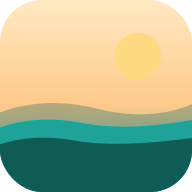
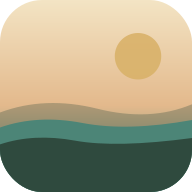
Rustiger, natuurtinten-only kleurenpalet + fotostrip verkleind
- Koraalaccent en felle geel/turquoise vervangen door gedempte
  sand/moss/sage/duingoud-tinten, in zowel licht als donker thema
  (CSS-variabelen, hero-gradient/SVG, app-iconen, kaartlijnen)
- Fotostrip op Activiteiten-tab teruggebracht naar alleen de
  Kennemerduinen-illustratie; Haarlem- en Amsterdam-Noord-stadstegels
  verwijderd
- Indicatieve kaartlijnen zijn nu duingoud, echte ingelezen GPX-tracks
  donkergroen — visueel onderscheid tussen "benaderd" en "geverifieerd"
- Eten-banner gebruikt nu var(--sage)/var(--ink) i.p.v. losse hex, zodat
  hij ook in donker thema klopt
- Service worker cache-versie opgehoogd (v2 -> v3) zodat de nieuwe look
  op al-geïnstalleerde toestellen doorkomt

Claude-Session: https://claude.ai/code/session_01Uq4kU3MDVzw9BQRoV6PwDB

diff --git a/index.html b/index.html
@@ -8,7 +8,7 @@
 <link rel="preconnect" href="https://fonts.gstatic.com" crossorigin>
 <link href="https://fonts.googleapis.com/css2?family=Fraunces:opsz,wght@9..144,500;9..144,600;9..144,700&family=DM+Sans:wght@400;500;600;700&family=DM+Mono:wght@400;500&display=swap" rel="stylesheet">
 <link rel="manifest" href="manifest.json">
-<meta name="theme-color" content="#0F5C56">
+<meta name="theme-color" content="#2F4A3E">
 <meta name="apple-mobile-web-app-capable" content="yes">
 <meta name="apple-mobile-web-app-status-bar-style" content="black-translucent">
 <meta name="apple-mobile-web-app-title" content="Duinvakantie">
@@ -17,42 +17,42 @@
 <link rel="stylesheet" href="vendor/leaflet/leaflet.css">
 <style>
   :root{
-    --bg:#FDF6E8;
-    --surface:#FFFFFF;
-    --surface-2:#FBEBC9;
-    --ink:#0F5C56;
-    --text:#1B4B48;
-    --muted:#8A7F6E;
-    --strike:#B4AA98;
-    --accent:#FF6B4A;
-    --accent-soft:#FFE1D6;
-    --sage:#1FA398;
-    --sage-soft:#D9F2EF;
-    --gold:#FFB238;
-    --line:#F4DFAE;
-    --header-text:#FFF6EA;
-    --shadow:0 10px 30px -14px rgba(15,92,86,0.28);
-    --shadow-sm:0 3px 12px -6px rgba(15,92,86,0.22);
-    --del:#b98a6f;
+    --bg:#F2EEE1;
+    --surface:#FBFAF5;
+    --surface-2:#E8E1CC;
+    --ink:#2F4A3E;
+    --text:#3C5347;
+    --muted:#867D6C;
+    --strike:#B3AA97;
+    --accent:#5F7F4E;
+    --accent-soft:#E3E9D8;
+    --sage:#4C8577;
+    --sage-soft:#DCEAE4;
+    --gold:#C1984C;
+    --line:#E1D6B9;
+    --header-text:#FAF6EA;
+    --shadow:0 10px 30px -14px rgba(47,74,62,0.28);
+    --shadow-sm:0 3px 12px -6px rgba(47,74,62,0.22);
+    --del:#A38468;
   }
   html[data-theme="dark"]{
-    --bg:#15181F;
-    --surface:#1E222D;
-    --surface-2:#252A37;
-    --ink:#EEF0F6;
-    --text:#DFE3EC;
-    --muted:#9AA0AF;
-    --strike:#6C7280;
-    --accent:#EC855F;
-    --accent-soft:#33241C;
-    --sage:#5EBBA6;
-    --sage-soft:#14302B;
-    --gold:#E6B657;
-    --line:#2D3340;
-    --header-text:#F3EEE4;
+    --bg:#171C18;
+    --surface:#1F251F;
+    --surface-2:#262E26;
+    --ink:#DCE6DB;
+    --text:#C7D1C6;
+    --muted:#8D9A89;
+    --strike:#5B6759;
+    --accent:#8FB07A;
+    --accent-soft:#263323;
+    --sage:#5CA391;
+    --sage-soft:#1A2E29;
+    --gold:#C7A667;
+    --line:#2B332B;
+    --header-text:#EDE8DB;
     --shadow:0 12px 32px -14px rgba(0,0,0,0.6);
     --shadow-sm:0 4px 14px -7px rgba(0,0,0,0.55);
-    --del:#c9a084;
+    --del:#B49478;
   }
   *{box-sizing:border-box;}
   body{
@@ -70,7 +70,7 @@
   .mono{font-family:'DM Mono',monospace;}
 
   /* ---- HERO ---- */
-  header.hero{position:relative;min-height:340px;display:flex;overflow:hidden;background:linear-gradient(160deg,#0F5C56,#0A3E3A);}
+  header.hero{position:relative;min-height:340px;display:flex;overflow:hidden;background:linear-gradient(160deg,#2F4A3E,#182A21);}
   .hero-fallback{position:absolute;inset:0;z-index:0;}
   .hero-fallback svg{width:100%;height:100%;display:block;}
   .hero-bg{position:absolute;inset:0;width:100%;height:100%;object-fit:cover;display:block;z-index:1;}
@@ -118,8 +118,8 @@
   .banner img{width:100%;height:100%;object-fit:cover;display:block;}
   .banner .cap{position:absolute;left:0;right:0;bottom:0;background:linear-gradient(transparent,rgba(15,18,26,0.72));color:#fff;font-family:'Fraunces',serif;font-weight:600;font-size:16px;padding:26px 16px 13px;}
 
-  .photo-strip{display:grid;grid-template-columns:repeat(3,1fr);gap:9px;margin-bottom:6px;}
-  .pf{margin:0;position:relative;height:118px;border-radius:14px;overflow:hidden;background:linear-gradient(135deg,var(--sage),var(--ink));box-shadow:var(--shadow-sm);}
+  .photo-strip{display:grid;grid-template-columns:1fr;gap:9px;margin-bottom:6px;}
+  .pf{margin:0;position:relative;height:140px;border-radius:14px;overflow:hidden;background:linear-gradient(135deg,var(--sage),var(--ink));box-shadow:var(--shadow-sm);}
   .pf img{width:100%;height:100%;object-fit:cover;display:block;}
   .pf figcaption{position:absolute;left:0;right:0;bottom:0;background:linear-gradient(transparent,rgba(0,0,0,0.6));color:#fff;font-family:'DM Mono',monospace;font-size:10.5px;padding:16px 9px 7px;}
 
@@ -213,13 +213,13 @@
   <div class="hero-fallback" aria-hidden="true">
     <svg viewBox="0 0 800 340" preserveAspectRatio="xMidYMid slice" xmlns="http://www.w3.org/2000/svg">
       <defs>
-        <linearGradient id="sky" x1="0" y1="0" x2="0" y2="1"><stop offset="0%" stop-color="#FFE9C2"/><stop offset="55%" stop-color="#FFC98A"/><stop offset="100%" stop-color="#2FB8C4"/></linearGradient>
+        <linearGradient id="sky" x1="0" y1="0" x2="0" y2="1"><stop offset="0%" stop-color="#F3E4C4"/><stop offset="55%" stop-color="#E3B98C"/><stop offset="100%" stop-color="#4C8577"/></linearGradient>
       </defs>
       <rect width="800" height="340" fill="url(#sky)"/>
-      <circle cx="610" cy="110" r="52" fill="#FFD97D" opacity="0.9"/>
-      <path d="M0,225 Q150,270 320,232 T660,232 T800,226 L800,340 L0,340 Z" fill="#0F5C56" opacity="0.30"/>
-      <path d="M0,255 Q120,228 240,246 T500,240 T800,248 L800,340 L0,340 Z" fill="#1FA398"/>
-      <path d="M0,285 Q100,262 220,278 T460,272 T800,280 L800,340 L0,340 Z" fill="#0F5C56"/>
+      <circle cx="610" cy="110" r="52" fill="#D9B26B" opacity="0.9"/>
+      <path d="M0,225 Q150,270 320,232 T660,232 T800,226 L800,340 L0,340 Z" fill="#2F4A3E" opacity="0.30"/>
+      <path d="M0,255 Q120,228 240,246 T500,240 T800,248 L800,340 L0,340 Z" fill="#4C8577"/>
+      <path d="M0,285 Q100,262 220,278 T460,272 T800,280 L800,340 L0,340 Z" fill="#2F4A3E"/>
     </svg>
   </div>
   <div class="hero-scrim"></div>
@@ -715,7 +715,7 @@ async function upgradeRoutesFromGpx(){
       const pts = parseGpxLatLngs(await res.text());
       if(!pts) return;
       if(routeLayers[i]) routeMapInstance.removeLayer(routeLayers[i]);
-      routeLayers[i] = L.polyline(pts, { color:'#0F5C56', weight:4, opacity:0.9 })
+      routeLayers[i] = L.polyline(pts, { color:'#2F4A3E', weight:4, opacity:0.9 })
         .bindPopup(`<b>${r.name}</b><br>Ingelezen uit eigen GPX-bestand.`)
         .addTo(routeMapInstance);
       const row = document.querySelector(`.route-row input[data-idx="${i}"]`)?.closest('.route-row');
@@ -751,7 +751,7 @@ function renderRouteMap(){
       <div id="routeMap"></div>
     </div>
     <div class="route-list">${rows}</div>
-    <div class="intro">🟠 oranje lijnen zijn een vereenvoudigde, indicatieve route (geen ingelezen GPX-bestand) — check bij twijfel altijd de link. Routes zonder lijn tonen alleen een startmarkering; open de link voor het volledige, officiële tracé.</div>`;
+    <div class="intro">🟡 goudkleurige lijnen zijn een vereenvoudigde, indicatieve route (geen ingelezen GPX-bestand) — check bij twijfel altijd de link. Donkergroene lijnen zijn een echt ingelezen GPX-track. Routes zonder lijn tonen alleen een startmarkering; open de link voor het volledige, officiële tracé.</div>`;
 
   routeMapInstance = L.map('routeMap', { scrollWheelZoom:false }).setView([52.398,4.60], 11);
   L.tileLayer('https://{s}.tile.openstreetmap.org/{z}/{x}/{y}.png', {
@@ -761,7 +761,7 @@ function renderRouteMap(){
 
   routeLayers = ROUTES.map(r=>{
     if(r.line){
-      return L.polyline(r.line, { color:'#FF6B4A', weight:4, opacity:0.85 })
+      return L.polyline(r.line, { color:'#C1984C', weight:4, opacity:0.85 })
         .bindPopup(`<b>${r.name}</b><br>Indicatieve, vereenvoudigde route — geen officieel GPX-bestand.`)
         .addTo(routeMapInstance);
     }
@@ -916,43 +916,15 @@ function renderAct(){
   const strip = `<div class="photo-strip">
       <figure class="pf">
         <svg viewBox="0 0 200 110" preserveAspectRatio="xMidYMid slice" xmlns="http://www.w3.org/2000/svg" role="img" aria-label="Kennemerduinen">
-          <rect width="200" height="110" fill="#FDF6E8"/>
-          <path d="M0,70 Q50,45 100,62 T200,55 L200,110 L0,110 Z" fill="#FFB238" opacity="0.5"/>
-          <path d="M0,85 Q60,60 120,80 T200,75 L200,110 L0,110 Z" fill="#FBEBC9" opacity="0.9"/>
-          <path d="M0,95 Q70,78 140,92 T200,88 L200,110 L0,110 Z" fill="#E8B860"/>
-          <circle cx="165" cy="25" r="14" fill="#FFCC4D"/>
-          <path d="M30,95 Q34,80 38,95 Z" fill="#1FA398"/>
-          <path d="M40,95 Q43,86 46,95 Z" fill="#1FA398"/>
+          <rect width="200" height="110" fill="#F2EEE1"/>
+          <path d="M0,70 Q50,45 100,62 T200,55 L200,110 L0,110 Z" fill="#C1984C" opacity="0.5"/>
+          <path d="M0,85 Q60,60 120,80 T200,75 L200,110 L0,110 Z" fill="#E8E1CC" opacity="0.9"/>
+          <path d="M0,95 Q70,78 140,92 T200,88 L200,110 L0,110 Z" fill="#D2B383"/>
+          <circle cx="165" cy="25" r="14" fill="#D9B26B"/>
+          <path d="M30,95 Q34,80 38,95 Z" fill="#4C8577"/>
+          <path d="M40,95 Q43,86 46,95 Z" fill="#4C8577"/>
         </svg>
         <figcaption>Kennemerduinen</figcaption>
-      </figure>
-      <figure class="pf">
-        <svg viewBox="0 0 200 110" preserveAspectRatio="xMidYMid slice" xmlns="http://www.w3.org/2000/svg" role="img" aria-label="Haarlem">
-          <rect width="200" height="110" fill="#D9F2EF"/>
-          <rect x="0" y="70" width="200" height="40" fill="#0F5C56"/>
-          <rect x="20" y="45" width="28" height="65" fill="#1FA398"/>
-          <rect x="55" y="55" width="24" height="55" fill="#2FB8C4"/>
-          <polygon points="95,55 110,20 125,55" fill="#1FA398"/>
-          <rect x="99" y="55" width="22" height="55" fill="#1FA398"/>
-          <rect x="106" y="30" width="8" height="16" fill="#1FA398"/>
-          <rect x="132" y="50" width="26" height="60" fill="#2FB8C4"/>
-          <rect x="165" y="60" width="24" height="50" fill="#1FA398"/>
-          <circle cx="108" cy="18" r="3" fill="#FF6B4A"/>
-        </svg>
-        <figcaption>Haarlem</figcaption>
-      </figure>
-      <figure class="pf">
-        <svg viewBox="0 0 200 110" preserveAspectRatio="xMidYMid slice" xmlns="http://www.w3.org/2000/svg" role="img" aria-label="Amsterdam Noord">
-          <rect width="200" height="110" fill="#FBEBC9"/>
-          <rect x="0" y="80" width="200" height="30" fill="#0F5C56"/>
-          <rect x="15" y="55" width="50" height="30" fill="#FF6B4A" opacity="0.85"/>
-          <rect x="70" y="60" width="45" height="25" fill="#FFCC4D" opacity="0.85"/>
-          <rect x="120" y="50" width="35" height="35" fill="#1FA398"/>
-          <line x1="165" y1="85" x2="165" y2="25" stroke="#0F5C56" stroke-width="3"/>
-          <line x1="165" y1="30" x2="190" y2="45" stroke="#0F5C56" stroke-width="3"/>
-          <line x1="165" y1="30" x2="140" y2="40" stroke="#0F5C56" stroke-width="3"/>
-        </svg>
-        <figcaption>Amsterdam Noord</figcaption>
       </figure>
     </div>`;
   const intro = `<div class="intro">Alle ideeën los, per categorie — pak er 's ochtends uit wat bij het weer en jullie zin past. Geen vast schema.</div>`;
@@ -965,10 +937,10 @@ function renderAct(){
 }
 
 function renderEten(){
-  const banner = `<div class="banner" style="background:linear-gradient(135deg,#1FA398,#0F5C56);display:flex;align-items:flex-end;">
+  const banner = `<div class="banner" style="background:linear-gradient(135deg,var(--sage),var(--ink));display:flex;align-items:flex-end;">
     <svg viewBox="0 0 800 150" preserveAspectRatio="none" xmlns="http://www.w3.org/2000/svg" style="position:absolute;inset:0;width:100%;height:100%;">
-      <path d="M0,110 Q120,80 260,102 T520,90 T800,100 L800,150 L0,150 Z" fill="#FBEBC9" opacity="0.35"/>
-      <path d="M0,125 Q140,150 300,120 T650,120 T800,115 L800,150 L0,150 Z" fill="#FFB238" opacity="0.3"/>
+      <path d="M0,110 Q120,80 260,102 T520,90 T800,100 L800,150 L0,150 Z" fill="#E8E1CC" opacity="0.35"/>
+      <path d="M0,125 Q140,150 300,120 T650,120 T800,115 L800,150 L0,150 Z" fill="#C1984C" opacity="0.3"/>
     </svg>
     <div class="cap" style="position:relative;">Elke dag iets lekkers 🍽</div>
   </div>`;

diff --git a/sw.js b/sw.js
@@ -7,8 +7,8 @@
 /* Verhoog dit versienummer bij ELKE inhoudelijke wijziging aan de app —
    anders detecteert een al-geïnstalleerd toestel de update niet en blijft
    de oude, gecachete inhoud getoond worden. */
-const APP_CACHE = "duinvakantie-app-v2";
-const RUNTIME_CACHE = "duinvakantie-runtime-v2";
+const APP_CACHE = "duinvakantie-app-v3";
+const RUNTIME_CACHE = "duinvakantie-runtime-v3";
 
 const APP_SHELL = [
   "./",
